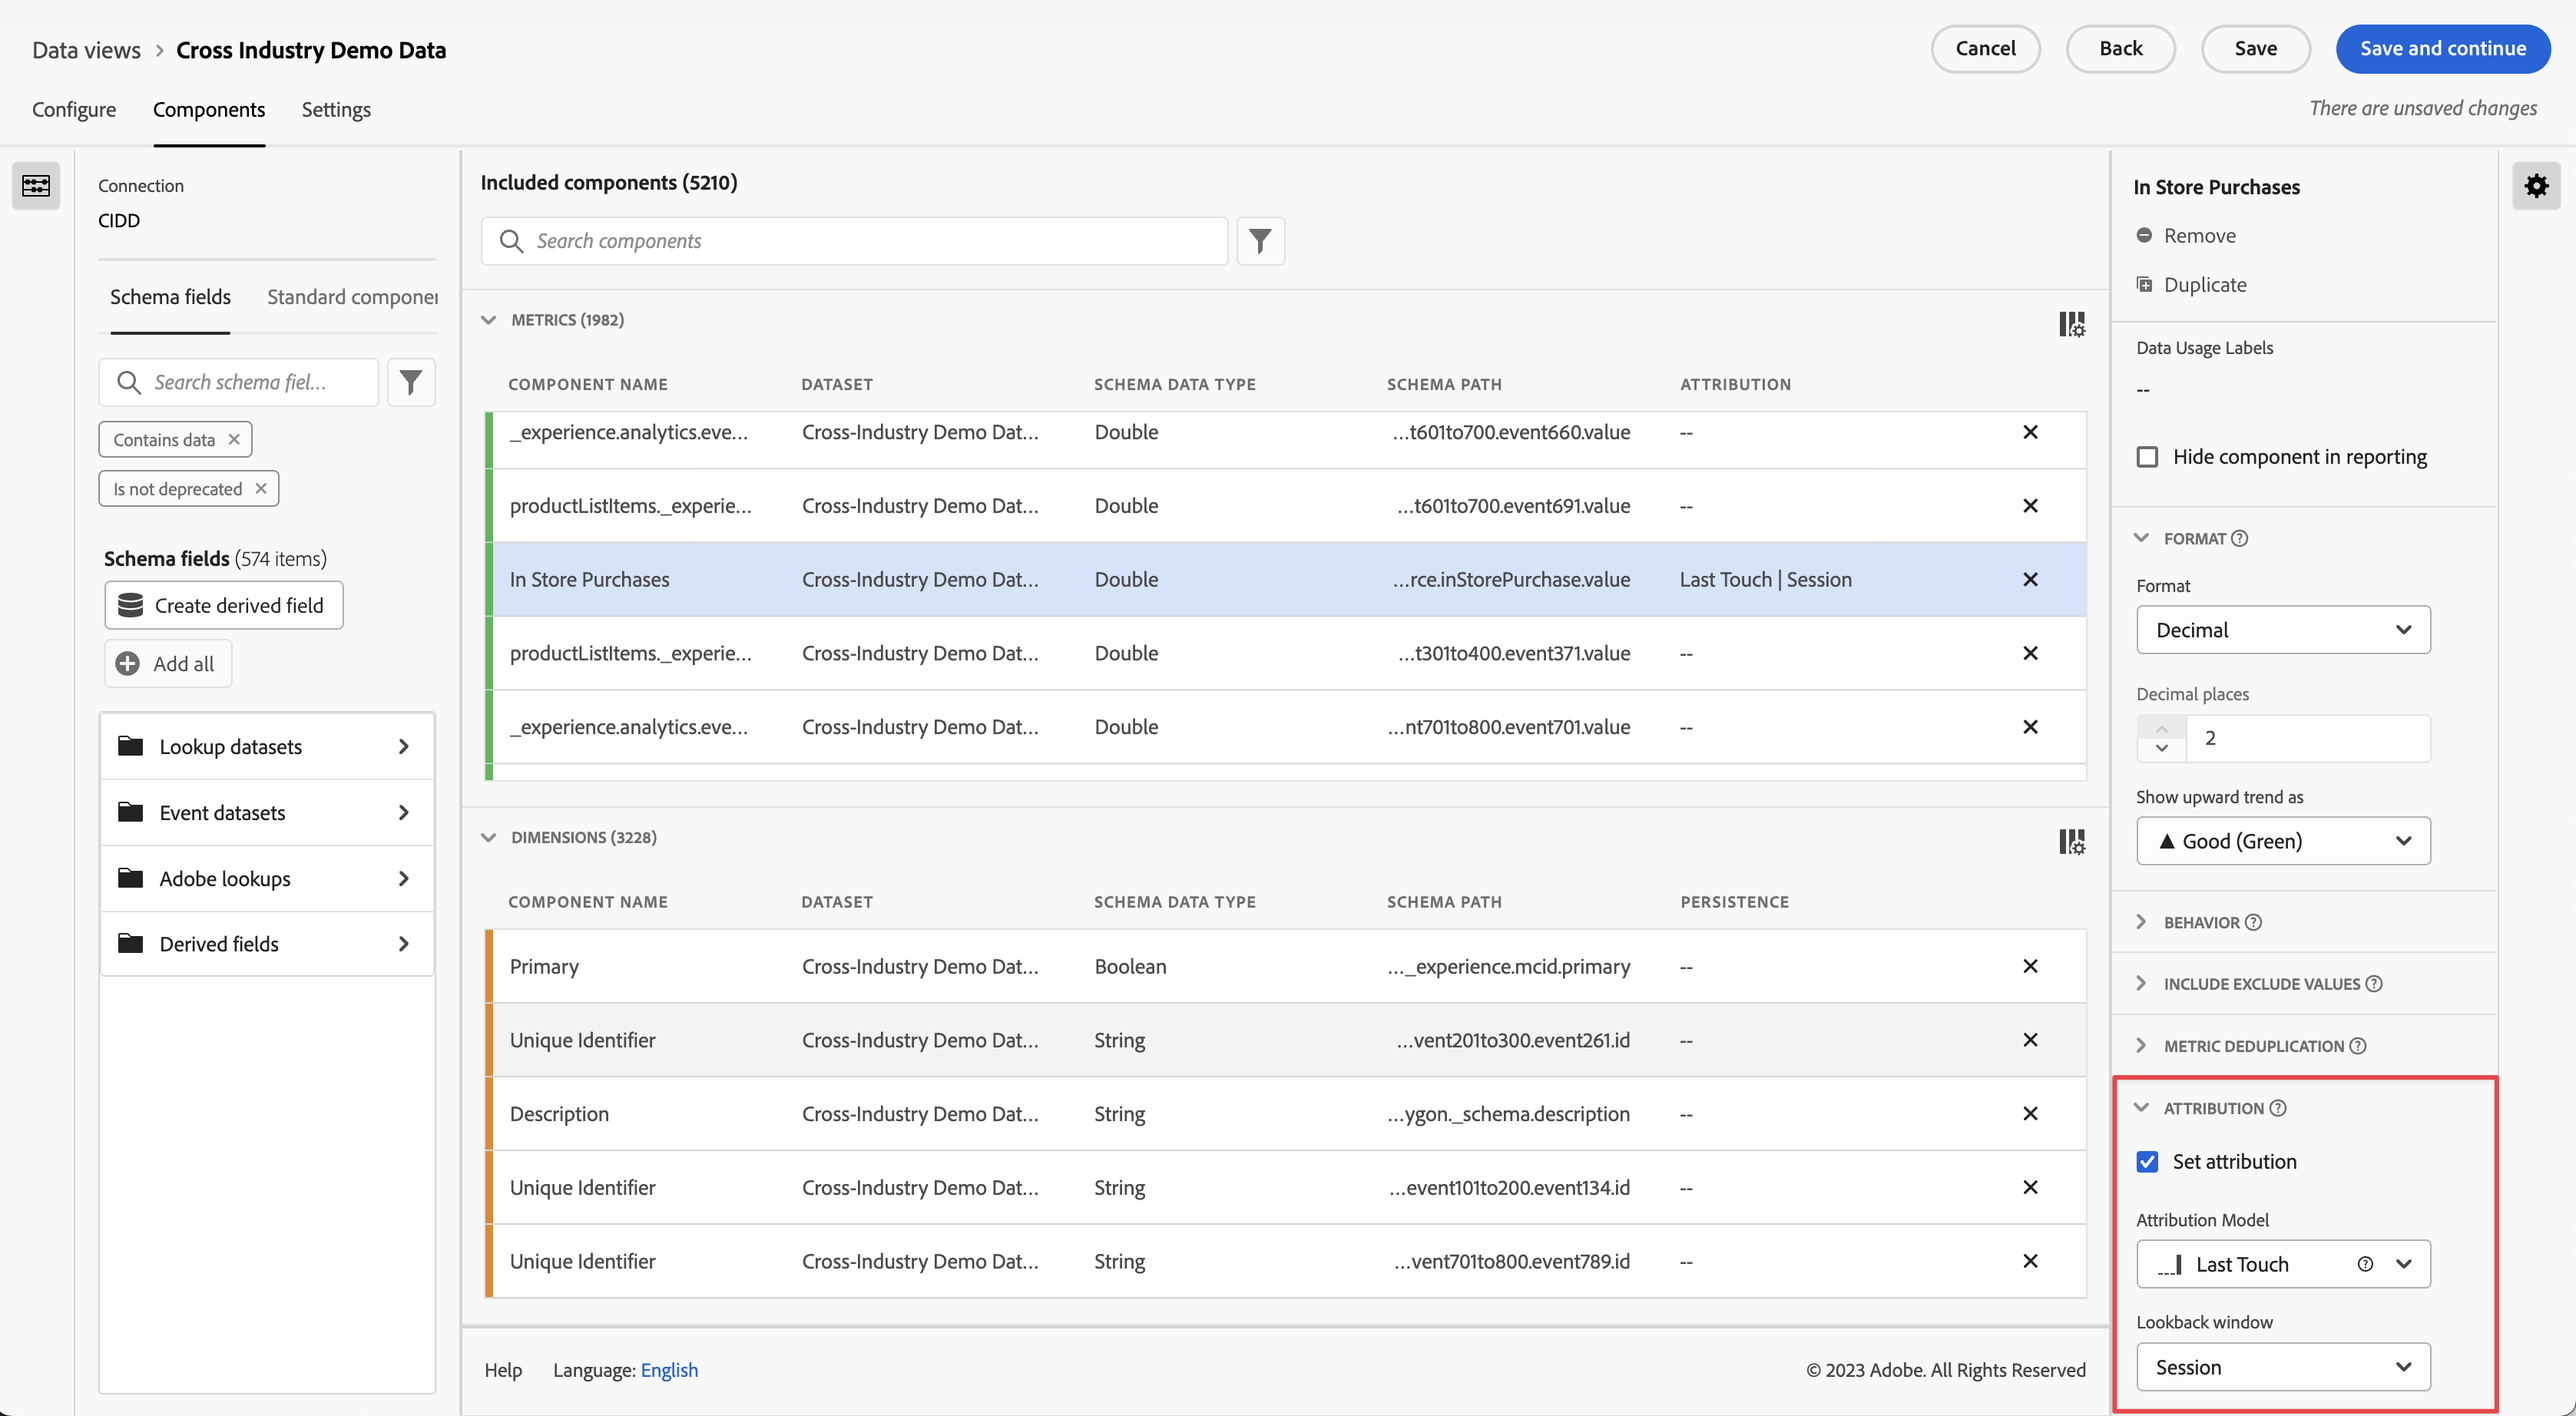
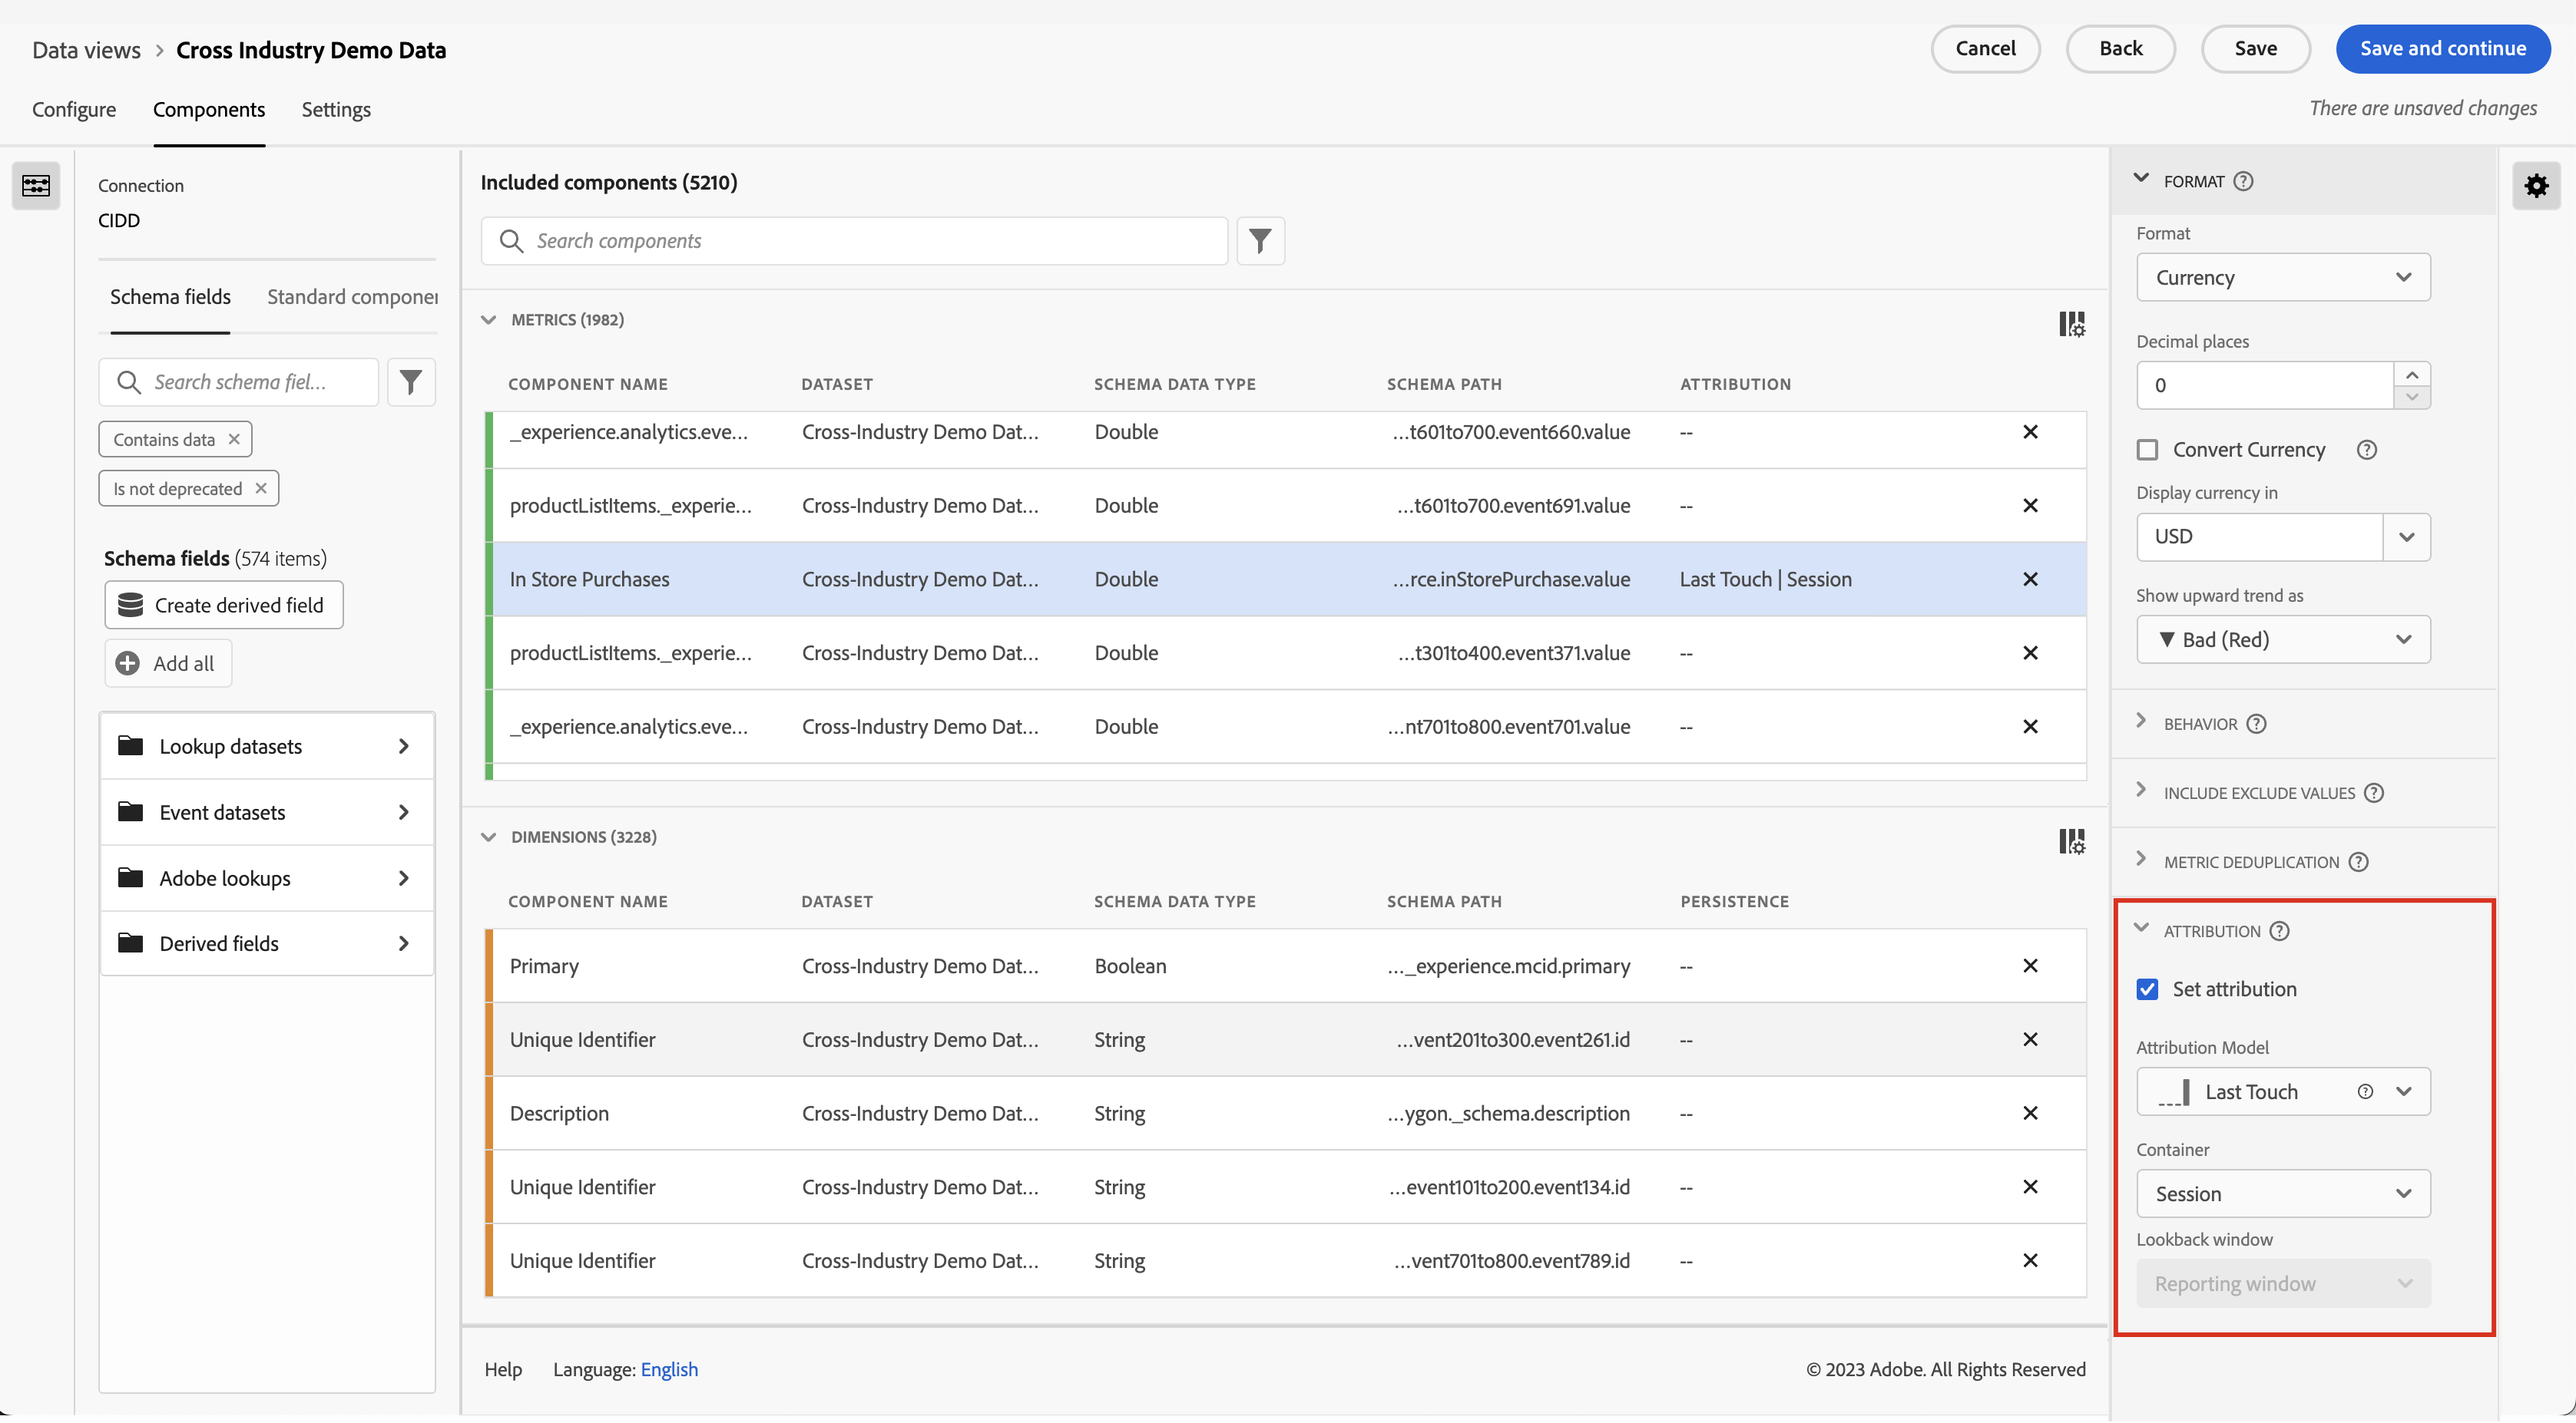
Updates for attribution configuration settings

diff --git a/help/_includes/snippets.md b/help/_includes/snippets.md
@@ -121,7 +121,7 @@ An attribution model determines which dimension items get credit for a metric wh
 
 An attribution container defines the desired scope for the attribution. Possible options are: 
 
-* **Session**: Looks back up to the beginning of the session where a conversion happened. Session lookback windows respect the modified [Session timeout](/help/data-views/create-dataview.md#session-settings) in a data view.
+* **Session**: Looks back up to the beginning of the session where a conversion happened. Session lookback windows respect the modified [Session timeout](/help/data-views/create-dataview.md#session-settings) in a data view. When **[!UICONTROL Session]** is selected, the [Attribution lookback window](#atribution-lookback-window) is automatically set to **[!UICONTROL Reporting window]** and cannot be changed.
 * **Person**: Looks at conversions from the scope of the person container.
 * **Global Account** [!BADGE B2B Edition]{type=Informative}: Looks at conversions from the scope of the global accounts container.
 * **Accounts** [!BADGE B2B Edition]{type=Informative}: Looks at conversions from the scope of the person container .
@@ -132,6 +132,7 @@ An attribution container defines the desired scope for the attribution. Possible
 
 A attribution lookback window is the amount of time a conversion should look back to include touch points. If a dimension item is set outside of the lookback window, the value is not included in any attribution calculations.
 
+* **[!UICONTROL Reporting window]**: Looks back up to the start of the reporting window from when the conversion happened.
 * **14 Days**: Looks back up to 14 days from when the conversion happened.
 * **30 Days**: Looks back up to 30 days from when the conversion happened.
 * **60 Days**: Looks back up to 60 days from when the conversion happened.
@@ -147,13 +148,13 @@ Consider the following example:
 1. On September 18, the person arrives to your site again through a social media link they got from a friend. They add several items to their cart, but do not purchase anything.
 1. On September 24, your marketing team sends them an email with a coupon for some of the items in their cart. They apply the coupon, but visit several other sites to see if any other coupons are available. They find another through a display ad, then ultimately make a purchase for $50.
 
-Depending on your attribution model, container and channels receive different credit. See table below for examples:
+Depending on your reporting window (for example September 10 - September 24), attribution model, container and channels receive different credit. See table below for examples:
 
 | Model | Container | Lookback window | Explanation |
 |---|---|---|---|
-| First touch | Session | 30 Days | Attribution looks at only the third visit. Between email and display, email was first, so email gets 100% credit for the $50 purchase. | 
+| First touch | Session | Reporting window | Attribution looks at only the third visit. Between email and display, email was first, so email gets 100% credit for the $50 purchase. | 
 | First touch | Person | 30 Days | Attribution looks at all three visits. Paid search was first, so it gets 100% credit for the $50 purchase. |
-| Linear | Session | 30 Days | Credit is divided between email and display. Both of these channels each get $25 credit. |
+| Linear | Session | Reporting window | Credit is divided between email and display. Both of these channels each get $25 credit. |
 | Linear | Person | 30 Days | Credit is divided between paid search, social, email, and display. Each channel gets $12.50 credit for this purchase. |
 | J-shaped | Person | 30 Days | Credit is divided between paid search, social, email, and display.<ul><li>60% credit is given to display, for $30.</li><li>20% credit is given to paid search, for $10.</li><li>The remaining 20% is divided between social and email, giving $5 to each.</li></ul> |
 | Time Decay | Person | 30 Days | <ul><li>Gap of zero days between display touch point and conversion. `2^(-0/7) = 1`</li><li>Gap of zero days between email touch point and conversion. `2^(-0/7) = 1`</li><li>Gap of six days between social touch point and conversion. `2^(-6/7) = 0.552`</li><li>Gap of nine days between paid search touch point and conversion. `2^(-9/7) = 0.41`</li>Normalizing these values results in the following:<ul><li>Display: 33.8%, getting $16.88</li><li>Email: 33.8% getting $16.88</li><li>Social: 18.6%, getting $9.32</li><li>Paid Search: 13.8%, getting $6.92</li></ul></li></ul> |

diff --git a/help/data-views/component-settings/attribution.md b/help/data-views/component-settings/attribution.md
@@ -20,8 +20,6 @@ role: Admin
 
 Attribution lets you customize how dimension items get credit for success events. 
 
-![Data views window highlighting the Set attribution option](../assets/attribution-settings.png)
-
 For example:
 
 1. A person on your site clicks a paid search link to one of your product pages. They add the product to their cart, but do not purchase it.
